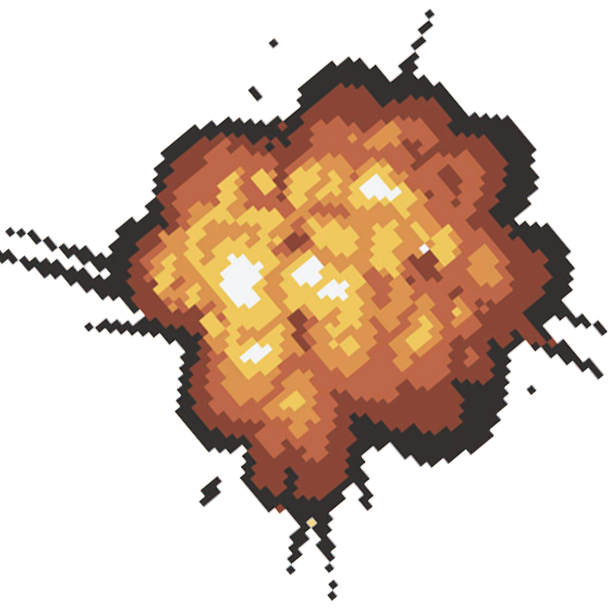
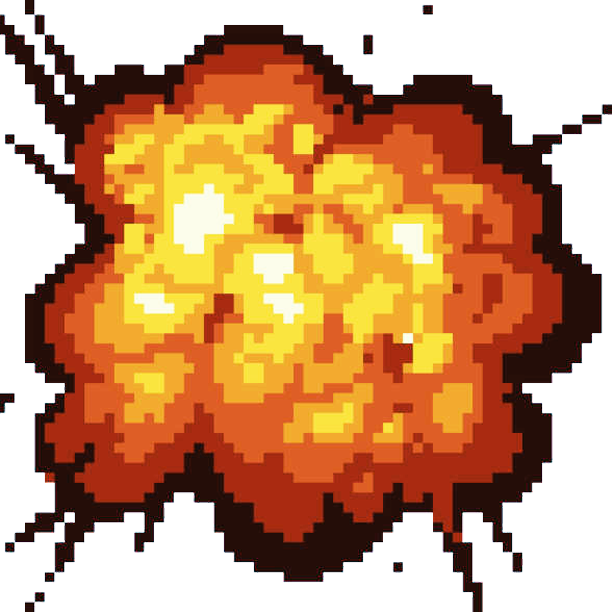
style update

diff --git a/game-ui/interactions/index.html b/game-ui/interactions/index.html
@@ -91,7 +91,7 @@
                                     ARSENAL</h3>
                                 <div class="w-100 pb-0 left-in">
                                     <ul class="p-0 w-100" style="border-radius: 10px; overflow: scroll !important;">
-                                        <li class="w-100 mb-2 offensive" style="height: 120px;">
+                                        <li class="w-100 mb-2 offensive" style="height: 135px;">
                                             <div
                                                 class="h-100 d-flex justify-content-center align-items-center item-img-container">
                                                 <img src="./items/props/dimension-eliminator.png" alt="dimension"
@@ -111,9 +111,13 @@
                                                     <p>Area</p>
                                                     <p>100%</p>
                                                 </div>
+                                                <div class="w-100 d-flex justify-content-between">
+                                                    <p>Count</p>
+                                                    <p>1</p>
+                                                </div>
                                             </div>
                                         </li>
-                                        <li class="w-100 mb-2 offensive" style="height: 120px;">
+                                        <li class="w-100 mb-2 offensive" style="height: 135px;">
                                             <div
                                                 class="h-100 d-flex justify-content-center align-items-center item-img-container">
                                                 <img src="./items/props/fire-bomb.png" alt="fire-bomb" class="item-img">
@@ -132,9 +136,13 @@
                                                     <p>Area</p>
                                                     <p>20</p>
                                                 </div>
+                                                <div class="w-100 d-flex justify-content-between">
+                                                    <p>Count</p>
+                                                    <p>4</p>
+                                                </div>
                                             </div>
                                         </li>
-                                        <li class="w-100 mb-2 offensive" style="height: 120px;">
+                                        <li class="w-100 mb-2 offensive" style="height: 135px;">
                                             <div
                                                 class="h-100 d-flex justify-content-center align-items-center item-img-container">
                                                 <img src="./items/props/grenade.png" alt="grenade" class="item-img">
@@ -153,9 +161,13 @@
                                                     <p>Area</p>
                                                     <p>10</p>
                                                 </div>
+                                                <div class="w-100 d-flex justify-content-between">
+                                                    <p>Count</p>
+                                                    <p>4</p>
+                                                </div>
                                             </div>
                                         </li>
-                                        <li class="w-100 mb-2 offensive" style="height: 120px;">
+                                        <li class="w-100 mb-2 offensive" style="height: 135px;">
                                             <div
                                                 class="h-100 d-flex justify-content-center align-items-center item-img-container">
                                                 <img src="./items/props/katana.png" alt="katana" class="item-img">
@@ -174,9 +186,13 @@
                                                     <p>Area</p>
                                                     <p>1</p>
                                                 </div>
+                                                <div class="w-100 d-flex justify-content-between">
+                                                    <p>Count</p>
+                                                    <p>4</p>
+                                                </div>
                                             </div>
                                         </li>
-                                        <li class="w-100 mb-2 offensive" style="height: 120px;">
+                                        <li class="w-100 mb-2 offensive" style="height: 135px;">
                                             <div
                                                 class="h-100 d-flex justify-content-center align-items-center item-img-container">
                                                 <img src="./items/props/wrench.png" alt="katana" class="item-img">
@@ -195,9 +211,13 @@
                                                     <p>Area</p>
                                                     <p>1</p>
                                                 </div>
+                                                <div class="w-100 d-flex justify-content-between">
+                                                    <p>Count</p>
+                                                    <p>4</p>
+                                                </div>
                                             </div>
                                         </li>
-                                        <li class="w-100 mb-2 roadblock" style="height: 120px;">
+                                        <li class="w-100 mb-2 roadblock" style="height: 135px;">
                                             <div
                                                 class="h-100 d-flex justify-content-center align-items-center item-img-container">
                                                 <img src="./items/props/acid.png" alt="banana" class="item-img">
@@ -216,9 +236,13 @@
                                                     <p>Area</p>
                                                     <p>5</p>
                                                 </div>
+                                                <div class="w-100 d-flex justify-content-between">
+                                                    <p>Count</p>
+                                                    <p>1</p>
+                                                </div>
                                             </div>
                                         </li>
-                                        <li class="w-100 mb-2 roadblock" style="height: 120px;">
+                                        <li class="w-100 mb-2 roadblock" style="height: 135px;">
                                             <div
                                                 class="h-100 d-flex justify-content-center align-items-center item-img-container">
                                                 <img src="./items/props/banana.png" alt="banana" class="item-img">
@@ -237,9 +261,13 @@
                                                     <p>Area</p>
                                                     <p>1</p>
                                                 </div>
+                                                <div class="w-100 d-flex justify-content-between">
+                                                    <p>Count</p>
+                                                    <p>4</p>
+                                                </div>
                                             </div>
                                         </li>
-                                        <li class="w-100 mb-2" style="height: 120px;">
+                                        <li class="w-100 mb-2" style="height: 135px;">
                                             <div
                                                 class="h-100 d-flex justify-content-center align-items-center item-img-container">
                                                 <img src="./items/props/helmet.png" alt="helmet" class="item-img">
@@ -258,9 +286,13 @@
                                                     <p>Duration</p>
                                                     <p>6s</p>
                                                 </div>
+                                                <div class="w-100 d-flex justify-content-between">
+                                                    <p>Count</p>
+                                                    <p>1</p>
+                                                </div>
                                             </div>
                                         </li>
-                                        <li class="w-100 mb-2" style="height: 120px;">
+                                        <li class="w-100 mb-2" style="height: 135px;">
                                             <div
                                                 class="h-100 d-flex justify-content-center align-items-center item-img-container">
                                                 <img src="./items/props/force-field.png" alt="helmet" class="item-img">
@@ -279,9 +311,13 @@
                                                     <p>Duration</p>
                                                     <p>10s</p>
                                                 </div>
+                                                <div class="w-100 d-flex justify-content-between">
+                                                    <p>Count</p>
+                                                    <p>10</p>
+                                                </div>
                                             </div>
                                         </li>
-                                        <li class="w-100 mb-2" style="height: 120px;">
+                                        <li class="w-100 mb-2" style="height: 135px;">
                                             <div
                                                 class="h-100 d-flex justify-content-center align-items-center item-img-container">
                                                 <img src="./items/props/godzilla.png" alt="godzilla" class="item-img">
@@ -299,6 +335,10 @@
                                                 <div class="w-100 d-flex justify-content-between">
                                                     <p>HP</p>
                                                     <p>20</p>
+                                                </div>
+                                                <div class="w-100 d-flex justify-content-between">
+                                                    <p>Count</p>
+                                                    <p>1</p>
                                                 </div>
                                             </div>
                                         </li>

diff --git a/game-ui/interactions/js/itemList.js b/game-ui/interactions/js/itemList.js
@@ -4,81 +4,107 @@ document.addEventListener("DOMContentLoaded", function () {
   const purplePlayer = document.querySelector('#purple');
   let selectedItem = null;
   let itemSelected = false;
-  let isBlazeBurst = false;
-  let isGrenade = false;
+  let isExplosive = false;
+  let gameBgListenerActive = false;
 
   listItemElements.forEach((item) => {
     item.addEventListener('click', () => {
-      if (!itemSelected && (item.classList.contains("offensive") || item.classList.contains("roadblock")) && item.querySelector('img')) {
-        const itemHeader = item.querySelector('h4');
-        isBlazeBurst = itemHeader && itemHeader.textContent === 'Blaze Burst';
-        isGrenade = itemHeader && itemHeader.textContent === 'Grenade';
-        selectedItem = item.querySelector('img');
-        flipAndHide({ target: selectedItem });
-      } else {
-        selectedItem = null;
+
+      selectedItem = item.querySelector('img');
+      const itemHeader = item.querySelector('h4');
+      isExplosive = itemHeader && (itemHeader.textContent === 'Blaze Burst' || itemHeader.textContent === 'Grenade');
+      selectedItem = item.querySelector('img');
+
+      if (gameBgListenerActive) {
+        gameBg.removeEventListener('click', gameBgClickListener);
       }
+
+      const countDiv = item.querySelector(".item-desc div:last-child p:last-child");
+      const currentCount = parseInt(countDiv.textContent, 10);
+
+      if (currentCount > 1) {
+        countDiv.textContent = currentCount - 1;
+      } else {
+        flipAndHide({ target: selectedItem });
+      }
+      
+      gameBg.addEventListener('click', gameBgClickListener);
+      gameBgListenerActive = true;
     });
   });
 
-  gameBg.addEventListener('click', (event) => {
-    if (selectedItem) {
-      const clonedImage = selectedItem.cloneNode();
-      const playerPosition = purplePlayer.getBoundingClientRect();
-      const playerY = window.innerHeight - playerPosition.bottom;
-      clonedImage.style.position = 'fixed';
-      clonedImage.style.left = `${playerPosition.left}px`;
-      clonedImage.style.bottom = `${playerY}px`;
-      clonedImage.style.height = '50px';
-      clonedImage.style.width = '50px';
-      document.body.appendChild(clonedImage);
+  function gameBgClickListener(event) {
+    if (gameBgListenerActive) {
+      if (selectedItem) {
+        const clonedImage = selectedItem.cloneNode();
+        const playerPosition = purplePlayer.getBoundingClientRect();
+        const playerY = window.innerHeight - playerPosition.bottom;
+        clonedImage.style.position = 'fixed';
+        clonedImage.style.left = `${playerPosition.left}px`;
+        clonedImage.style.bottom = `${playerY}px`;
+        // clonedImage.style.height = '50px';
+        // clonedImage.style.width = '50px';
+        document.body.appendChild(clonedImage);
 
-      const targetPosition = {
-        x: event.clientX,
-        y: window.innerHeight - event.clientY,
-      };
-      const animationDuration = 800;
-      const startTime = performance.now();
+        const targetPosition = {
+          x: event.clientX,
+          y: window.innerHeight * 0.55,
+        };
+        const animationDuration = 800;
+        const startTime = performance.now();
 
-      function animateParabola(currentTime) {
-        const elapsedTime = currentTime - startTime;
-        const progress = elapsedTime / animationDuration;
-
-        if (progress < 1) {
-          const x = playerPosition.left + (targetPosition.x - playerPosition.left) * progress;
-          const y = playerY + (targetPosition.y - playerY) * progress + 100 * (4 * progress * (1 - progress));
-          clonedImage.style.left = `${x}px`;
-          clonedImage.style.bottom = `${y}px`;
-          requestAnimationFrame(animateParabola);
-        } else {
-          document.body.removeChild(clonedImage);
-          if (isBlazeBurst || isGrenade) {
-            showExplosion(targetPosition.x, targetPosition.y);
+        function animateParabola(currentTime) {
+          const elapsedTime = currentTime - startTime;
+          const progress = elapsedTime / animationDuration;
+        
+          if (progress < 1) {
+            const x = playerPosition.left + (targetPosition.x - playerPosition.left) * progress;
+            const y = playerY + (targetPosition.y - playerY) * progress + 100 * (4 * progress * (1 - progress));
+            const sizeProgress = progress < 0.5 ? progress * 2 : 1;
+            const size = sizeProgress * 50;
+            clonedImage.style.height = `${size}px`;
+            clonedImage.style.width = `${size}px`;
+            clonedImage.style.left = `${x}px`;
+            clonedImage.style.bottom = `${y}px`;
+            requestAnimationFrame(animateParabola);
+        
+          } else {
+            document.body.removeChild(clonedImage);
+            if (isExplosive || isGrenade) {
+              showExplosion(targetPosition.x, targetPosition.y);
+            }
+            selectedItem = null;
+            resetSelection();
           }
-          selectedItem = null;
-          resetSelection();
-        }
+        }                      
+        requestAnimationFrame(animateParabola);
       }
-
-      requestAnimationFrame(animateParabola);
+      gameBg.removeEventListener('click', gameBgClickListener);
+      gameBgListenerActive = false;
     }
-  });
+  }
 
   function showExplosion(x, y) {
-    const explosionImage = document.createElement('img');
-    explosionImage.src = './items/effect/explosion.png';
+    const explosionImage = document.createElement('div');
+    explosionImage.style.backgroundImage = 'url(./items/effect/explosion.gif)';
+    explosionImage.style.backgroundSize = 'cover';
     explosionImage.style.position = 'fixed';
-    explosionImage.style.left = `${x-100}px`;
-    explosionImage.style.bottom = `${y-100}px`;
-    explosionImage.style.zIndex = 1000;
+    explosionImage.style.left = `${x - 100}px`;
+    explosionImage.style.bottom = `55%`;
+    explosionImage.style.zIndex = 80;
     explosionImage.style.height = '200px';
     explosionImage.style.width = '200px';
+
+    // Add brightness and drop-shadow filters for light and shadow effects
+    explosionImage.style.filter = 'brightness(1.2) drop-shadow(0 0 8px rgba(255, 255, 255, 0.6))';
+
     document.body.appendChild(explosionImage);
-  
+
     setTimeout(() => {
       document.body.removeChild(explosionImage);
-    }, 1000);
-  }  
+    }, 800);
+  }
+
 
   function flipAndHide(event) {
     if (itemSelected) return;
@@ -113,6 +139,6 @@ document.addEventListener("DOMContentLoaded", function () {
   }
 
   listItemElements.forEach((li) => {
-    li.addEventListener("click", flipAndHide);
+    li.removeEventListener("click", flipAndHide); // Removed this event listener as it's no longer needed
   });
 });

diff --git a/game-ui/interactions/style.css b/game-ui/interactions/style.css
@@ -291,6 +291,7 @@ h6 {
     display: flex;
     justify-content: space-between;
     align-items: center;
+    position: relative;
 }
 #panel-control #controls #control-center {
     height: 82%;
@@ -321,6 +322,7 @@ h6 {
     display: flex;
     justify-content: space-between;
     align-items: center;
+    position: relative;
 }
 
 ul {
@@ -335,6 +337,7 @@ ul {
     text-shadow: 0 0 10px #fff; 
     animation: textGlowing 5s ease-in-out infinite;
 }
+
 @keyframes textGlowing {
     0% {
         color: #fff;
